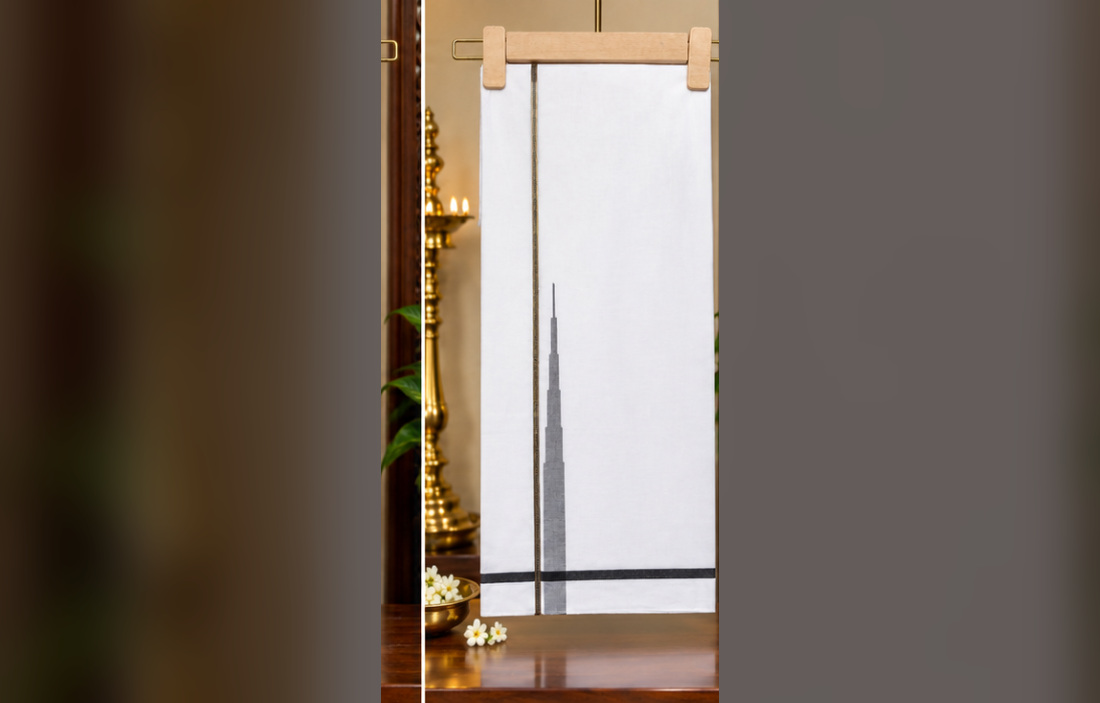
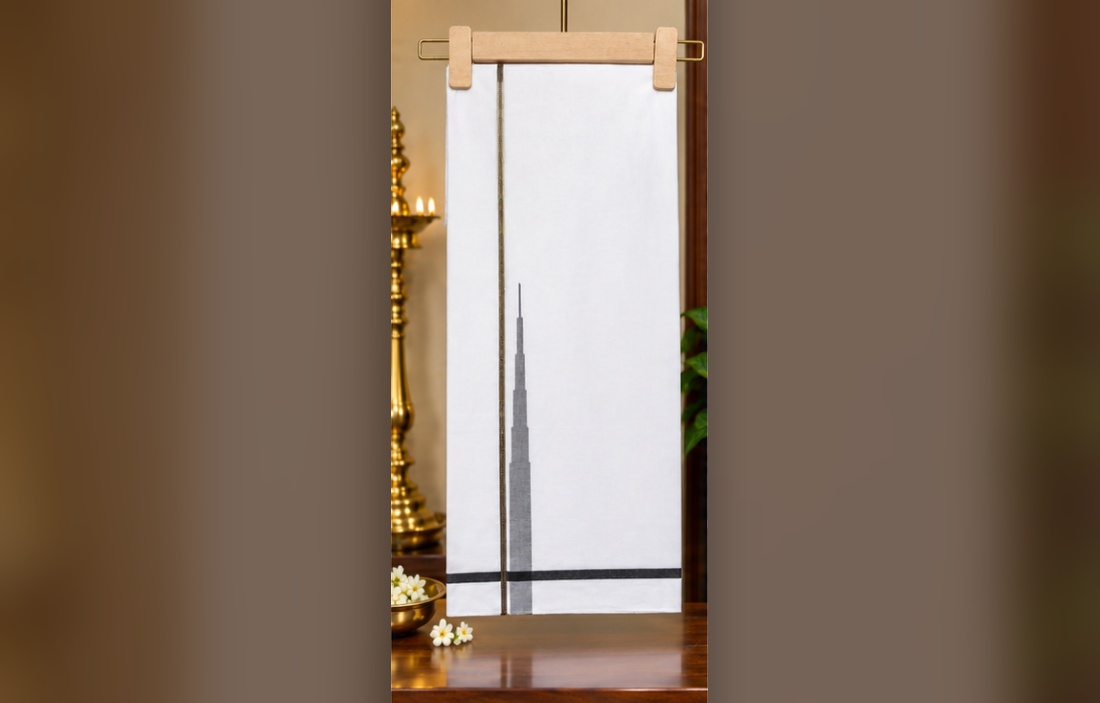
Hero image and scroll update

diff --git a/index.html b/index.html
@@ -42,7 +42,7 @@
     <a class="outline-btn" href="#products">VIEW COLLECTION</a>
   </div>
   <div class="hero-image" id="heroImage" aria-label="Nivetha Dhoti showcase">
-    <div class="hero-slides" id="heroSlides"><img class="hero-slide hero-slide-cover active" src="/assets/hero-scroll-1.jpg" alt="White dhoti with orange and gold zari border" loading="eager" fetchpriority="high"></div>
+    <div class="hero-slides" id="heroSlides"><img class="hero-slide hero-slide-cover active" src="/assets/hero-scroll-1.jpg" alt="Nivetha Dhotis premium collection hero" loading="eager" fetchpriority="high"></div>
     <button class="slide left" id="heroPrev" type="button" aria-label="Previous hero image">‹</button>
     <button class="slide right" id="heroNext" type="button" aria-label="Next hero image">›</button>
     <div class="dots" id="heroDots" aria-label="Hero image navigation"></div>

diff --git a/hero-slider.js b/hero-slider.js
@@ -1,6 +1,6 @@
 (() => {
   const slides = [
-    { src: '/assets/hero-scroll-1.jpg', alt: 'White dhoti with orange and gold zari border' },
+    { src: '/assets/hero-scroll-1.jpg', alt: 'Nivetha Dhotis premium collection hero' },
     { src: '/assets/hero-scroll-2.jpg', alt: 'White dhoti with black border' },
     { src: '/assets/hero-scroll-3.jpg', alt: 'White dhoti with teal green border' },
     { src: '/assets/hero-scroll-4.jpg', alt: 'White dhoti with cream and gold zari border' },

diff --git a/BUILD29_HERO_VISIBLE_FIX.md b/BUILD29_HERO_VISIBLE_FIX.md
@@ -1,0 +1,6 @@
+Build 29 hero visibility fix
+- Rebuilt all 6 hero slides from the approved fold-free composite.
+- Each slide shows one dhoti centered at full height.
+- Side areas now use a warm blended background instead of grey/empty padding.
+- Zari/border artwork on the centered dhoti is unchanged.
+- Existing slider arrows, dots, autoplay, and swipe behavior retained.
